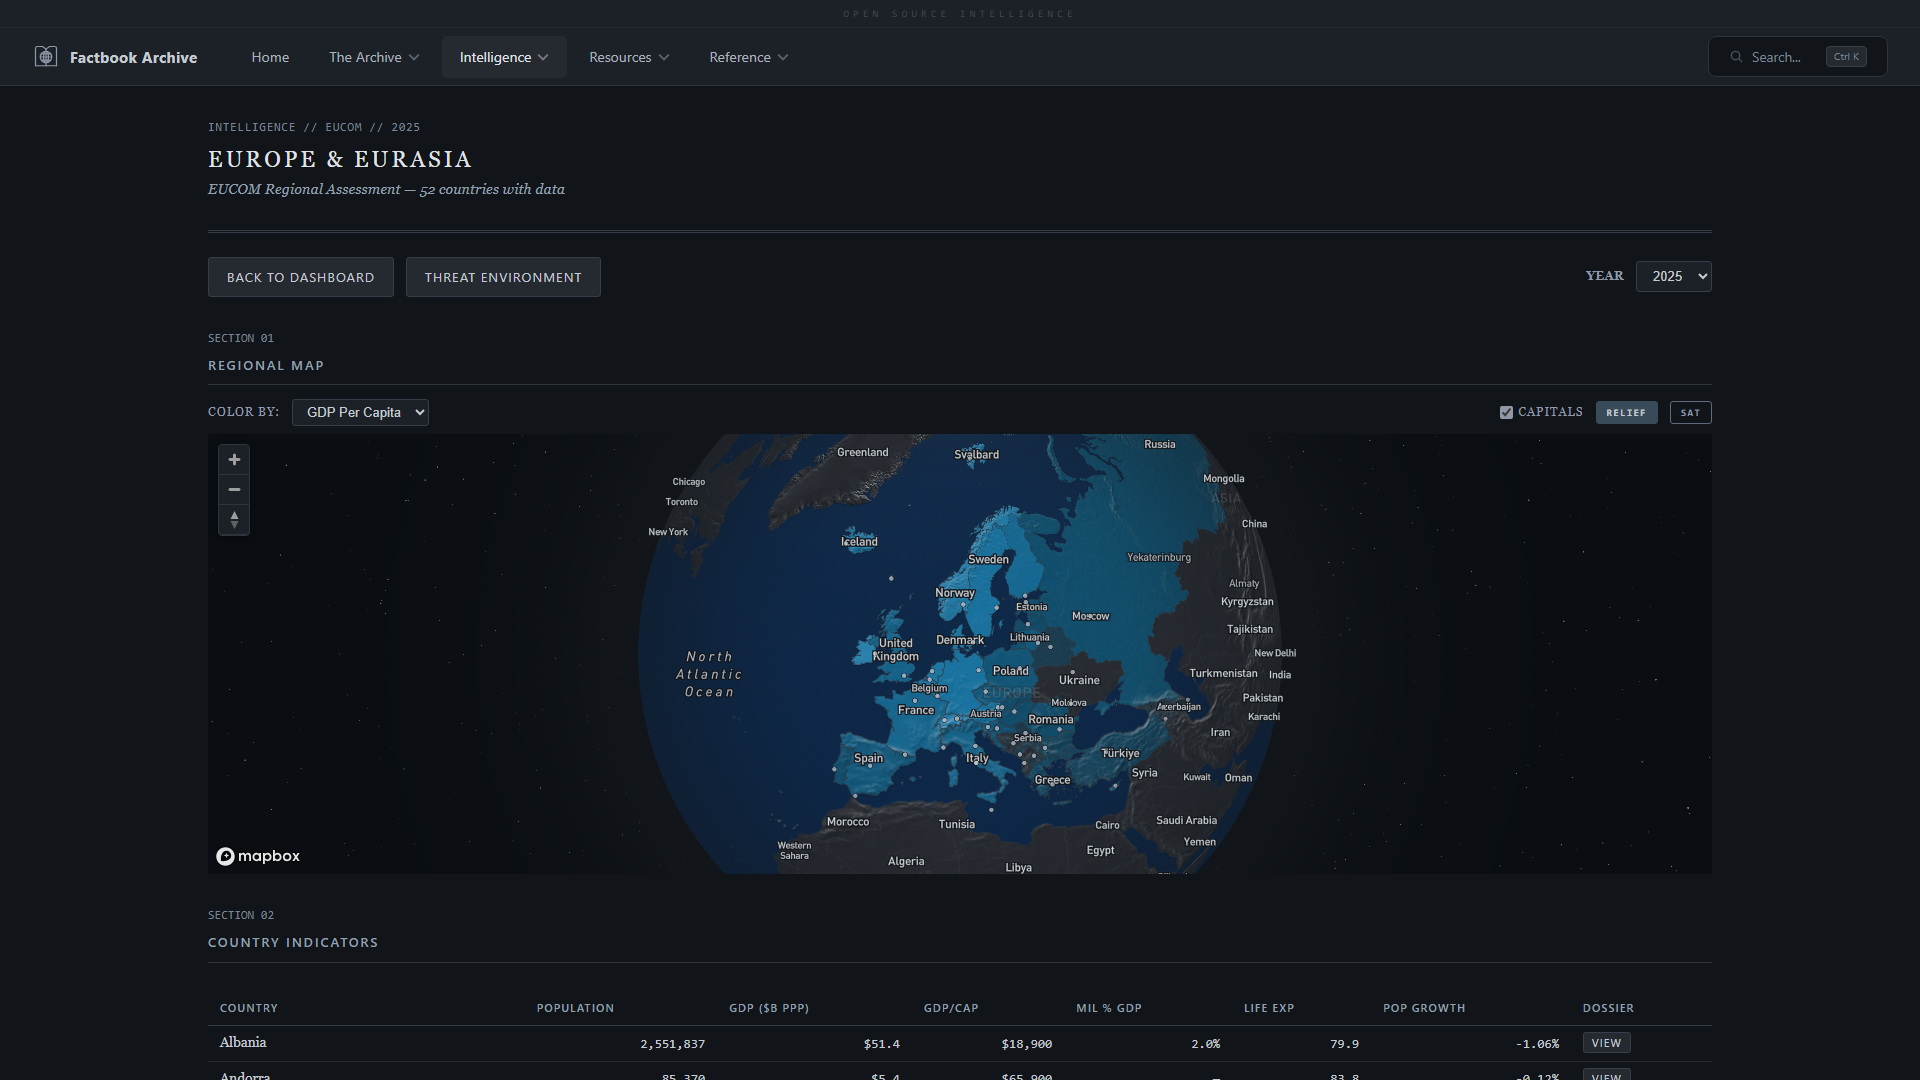
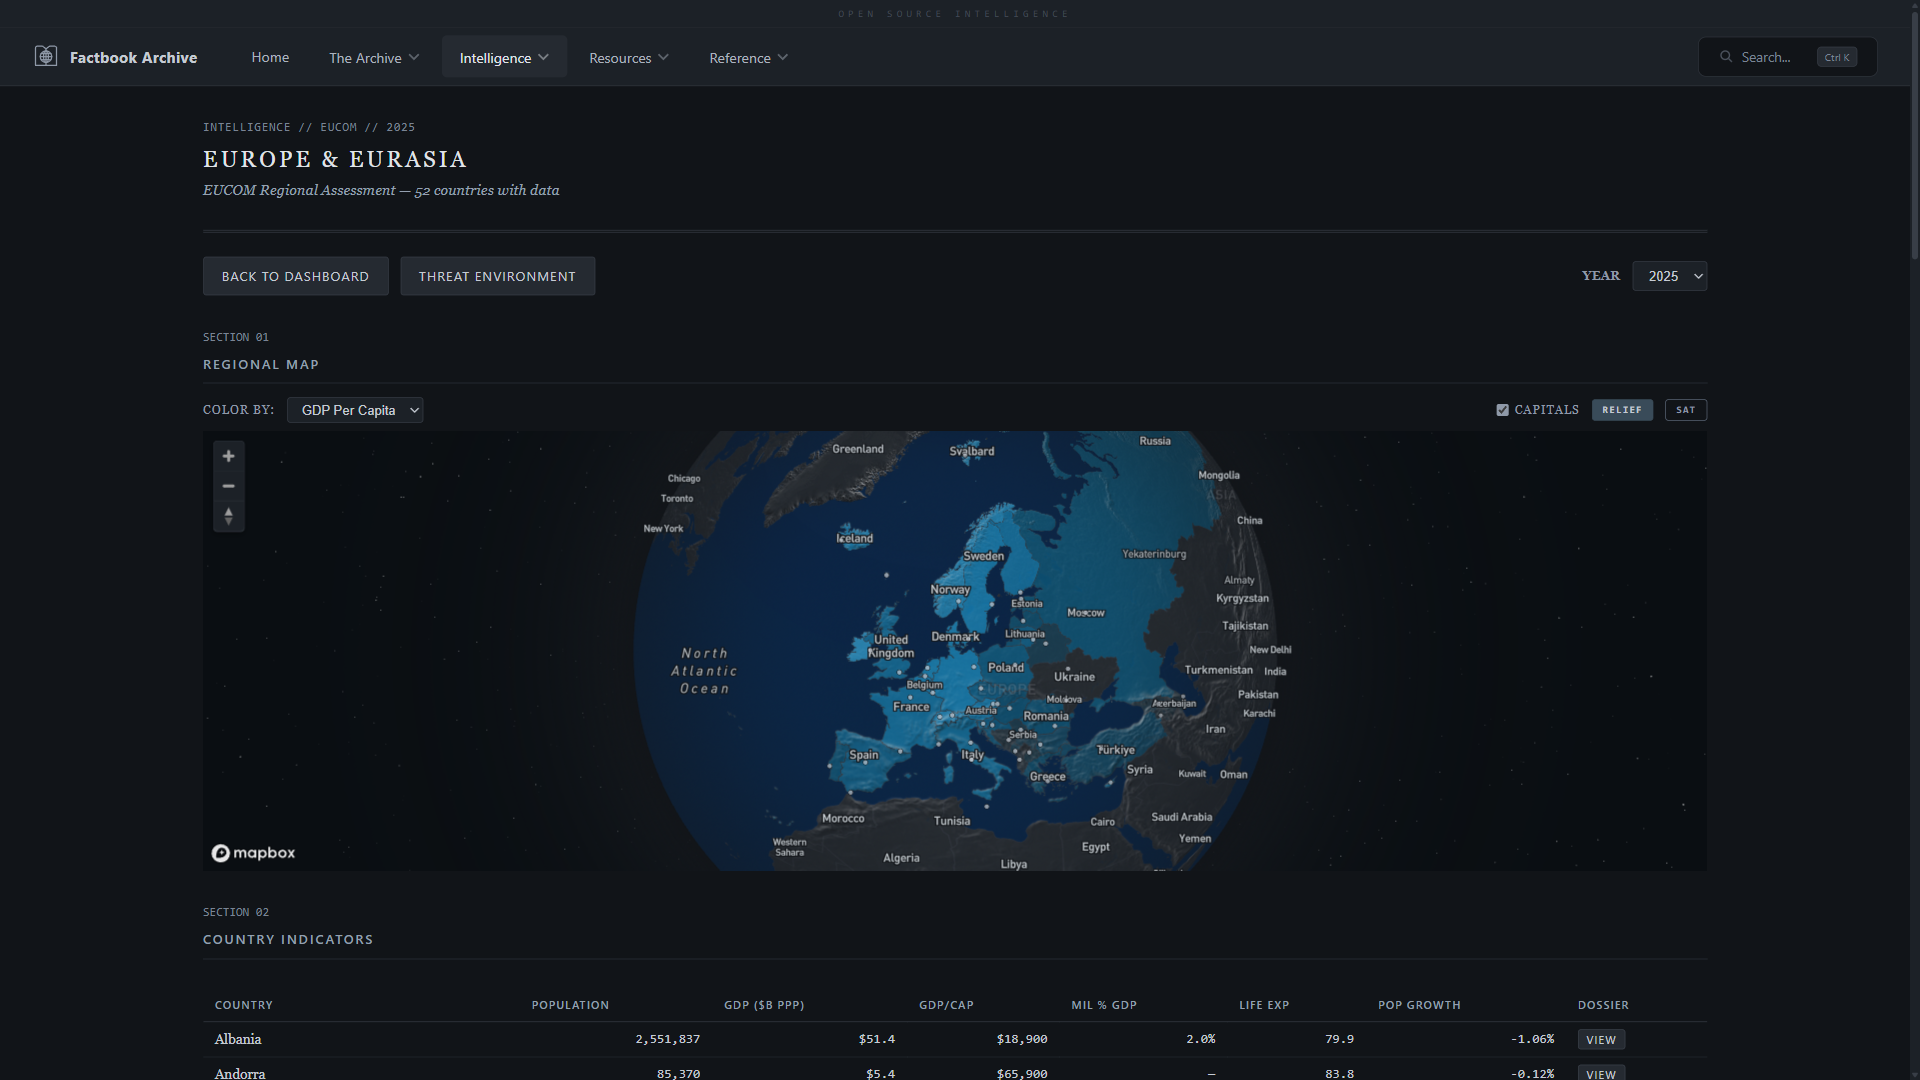
Re-capture map screenshots with GPU rendering for Mapbox globe fog
- Headed Chromium + ANGLE/D3D11 for proper WebGL globe atmosphere
- Added recapture_maps.py for targeted map-only re-captures
- Updated capture_screenshots.py to use headed mode with GPU

diff --git a/scripts/recapture_maps.py b/scripts/recapture_maps.py
@@ -1,0 +1,183 @@
+"""Re-capture map screenshots and GIF demos with GPU rendering (headed mode)."""
+import asyncio
+import io
+import os
+import shutil
+from PIL import Image
+from playwright.async_api import async_playwright
+
+BASE = "https://worldfactbookarchive.org"
+OUT = "C:/Users/milan/CIA_Factbook_Archive/docs/screenshots"
+WEBAPP_IMG = "C:/Users/milan/cia-factbook-webapp/webapp/static/img/screenshots"
+
+MAP_PAGES = [
+    ("regional_dashboard", "/analysis/regional", 6000),
+    ("region_eucom", "/analysis/region/EUCOM", 6000),
+    ("timeline_map", "/analysis/timeline", 6000),
+    ("map_compare", "/analysis/map-compare", 6000),
+    ("communications", "/analysis/communications", 6000),
+]
+
+
+def frames_to_gif(frame_bytes_list, output_path, fps=5):
+    images = []
+    for fb in frame_bytes_list:
+        img = Image.open(io.BytesIO(fb))
+        w, h = img.size
+        new_w = 1280
+        new_h = int(h * new_w / w)
+        img = img.resize((new_w, new_h), Image.LANCZOS)
+        img = img.convert("RGB").quantize(colors=128, method=Image.Quantize.MEDIANCUT)
+        images.append(img)
+    if images:
+        duration = int(1000 / fps)
+        images[0].save(
+            output_path, save_all=True, append_images=images[1:],
+            duration=duration, loop=0, optimize=True,
+        )
+
+
+def save_gif(frames, name):
+    gif_path = f"{OUT}/{name}.gif"
+    frames_to_gif(frames, gif_path, fps=5)
+    print(f"    -> {name}.gif ({len(frames)} frames)")
+    webapp_path = f"{WEBAPP_IMG}/{name}.gif"
+    if os.path.exists(os.path.dirname(webapp_path)):
+        shutil.copy2(gif_path, webapp_path)
+        print(f"    -> copied to webapp")
+
+
+async def main():
+    async with async_playwright() as p:
+        browser = await p.chromium.launch(
+            headless=False,
+            args=["--use-gl=angle", "--use-angle=d3d11"],
+        )
+        page = await browser.new_page(viewport={"width": 1920, "height": 1080})
+
+        # --- Static screenshots ---
+        print("=== MAP SCREENSHOTS (headed + GPU) ===\n")
+        for name, path, wait in MAP_PAGES:
+            url = f"{BASE}{path}"
+            print(f"  {name} ...")
+            await page.goto(url, wait_until="networkidle", timeout=30000)
+            await page.wait_for_timeout(wait)
+            await page.screenshot(path=f"{OUT}/{name}.png", full_page=False)
+            print(f"    -> {name}.png")
+
+        # --- GIF demos ---
+        print("\n=== MAP GIF DEMOS ===\n")
+
+        # Regional dashboard
+        print("  regional_dashboard_demo ...")
+        await page.goto(f"{BASE}/analysis/regional", wait_until="networkidle", timeout=30000)
+        await page.wait_for_timeout(5000)
+        frames = []
+        for _ in range(15):
+            frames.append(await page.screenshot())
+            await page.wait_for_timeout(300)
+        chip = page.locator("[data-region], .region-chip, .region-btn").first
+        if await chip.count() > 0:
+            await chip.click()
+            await page.wait_for_timeout(3000)
+            for _ in range(10):
+                frames.append(await page.screenshot())
+                await page.wait_for_timeout(300)
+        else:
+            for _ in range(10):
+                await page.mouse.wheel(0, 120)
+                await page.wait_for_timeout(400)
+                frames.append(await page.screenshot())
+        save_gif(frames, "regional_dashboard_demo")
+
+        # Timeline map
+        print("  timeline_map_demo ...")
+        await page.goto(f"{BASE}/analysis/timeline", wait_until="networkidle", timeout=30000)
+        await page.wait_for_timeout(5000)
+        frames = []
+        for _ in range(5):
+            frames.append(await page.screenshot())
+            await page.wait_for_timeout(200)
+        play = page.locator("#play-btn, .play-btn, button:has-text('Play'), [aria-label='Play']").first
+        if await play.count() > 0:
+            await play.click()
+            await page.wait_for_timeout(500)
+            for _ in range(25):
+                frames.append(await page.screenshot())
+                await page.wait_for_timeout(400)
+        save_gif(frames, "timeline_map_demo")
+
+        # Map compare
+        print("  map_compare_demo ...")
+        await page.goto(f"{BASE}/analysis/map-compare", wait_until="networkidle", timeout=30000)
+        await page.wait_for_timeout(6000)
+        frames = []
+        for _ in range(5):
+            frames.append(await page.screenshot())
+            await page.wait_for_timeout(200)
+        buttons = page.locator(".indicator-pill")
+        count = await buttons.count()
+        for i in range(min(count, 4)):
+            await buttons.nth(i).click()
+            await page.wait_for_timeout(3000)
+            for _ in range(6):
+                frames.append(await page.screenshot())
+                await page.wait_for_timeout(200)
+        save_gif(frames, "map_compare_demo")
+
+        # Trade networks
+        print("  trade_networks_demo ...")
+        await page.goto(f"{BASE}/analysis/networks/trade", wait_until="networkidle", timeout=30000)
+        await page.wait_for_timeout(5000)
+        frames = []
+        for _ in range(5):
+            frames.append(await page.screenshot())
+            await page.wait_for_timeout(200)
+        selector = page.locator("select, .commodity-select").first
+        if await selector.count() > 0:
+            options = await selector.locator("option").all()
+            for opt in options[1:4]:
+                val = await opt.get_attribute("value")
+                if val:
+                    await selector.select_option(val)
+                    await page.wait_for_timeout(2000)
+                    for _ in range(5):
+                        frames.append(await page.screenshot())
+                        await page.wait_for_timeout(200)
+        else:
+            for _ in range(20):
+                frames.append(await page.screenshot())
+                await page.wait_for_timeout(300)
+        save_gif(frames, "trade_networks_demo")
+
+        # Org networks
+        print("  org_networks_demo ...")
+        await page.goto(f"{BASE}/analysis/networks/organizations", wait_until="networkidle", timeout=30000)
+        await page.wait_for_timeout(5000)
+        frames = []
+        for _ in range(5):
+            frames.append(await page.screenshot())
+            await page.wait_for_timeout(200)
+        selector = page.locator("select").first
+        if await selector.count() > 0:
+            options = await selector.locator("option").all()
+            for opt in options[1:4]:
+                val = await opt.get_attribute("value")
+                if val:
+                    await selector.select_option(val)
+                    await page.wait_for_timeout(2000)
+                    for _ in range(5):
+                        frames.append(await page.screenshot())
+                        await page.wait_for_timeout(200)
+        else:
+            for _ in range(20):
+                frames.append(await page.screenshot())
+                await page.wait_for_timeout(300)
+        save_gif(frames, "org_networks_demo")
+
+        await browser.close()
+    print("\nDone!")
+
+
+if __name__ == "__main__":
+    asyncio.run(main())

diff --git a/scripts/capture_screenshots.py b/scripts/capture_screenshots.py
@@ -257,7 +257,11 @@ async def main():
     os.makedirs(OUT, exist_ok=True)
 
     async with async_playwright() as p:
-        browser = await p.chromium.launch()
+        # Use headed mode with GPU for proper Mapbox WebGL rendering (globe fog, atmosphere)
+        browser = await p.chromium.launch(
+            headless=False,
+            args=["--use-gl=angle", "--use-angle=d3d11"],
+        )
         page = await browser.new_page(viewport={"width": 1920, "height": 1080})
 
         await capture_screenshots(page)
